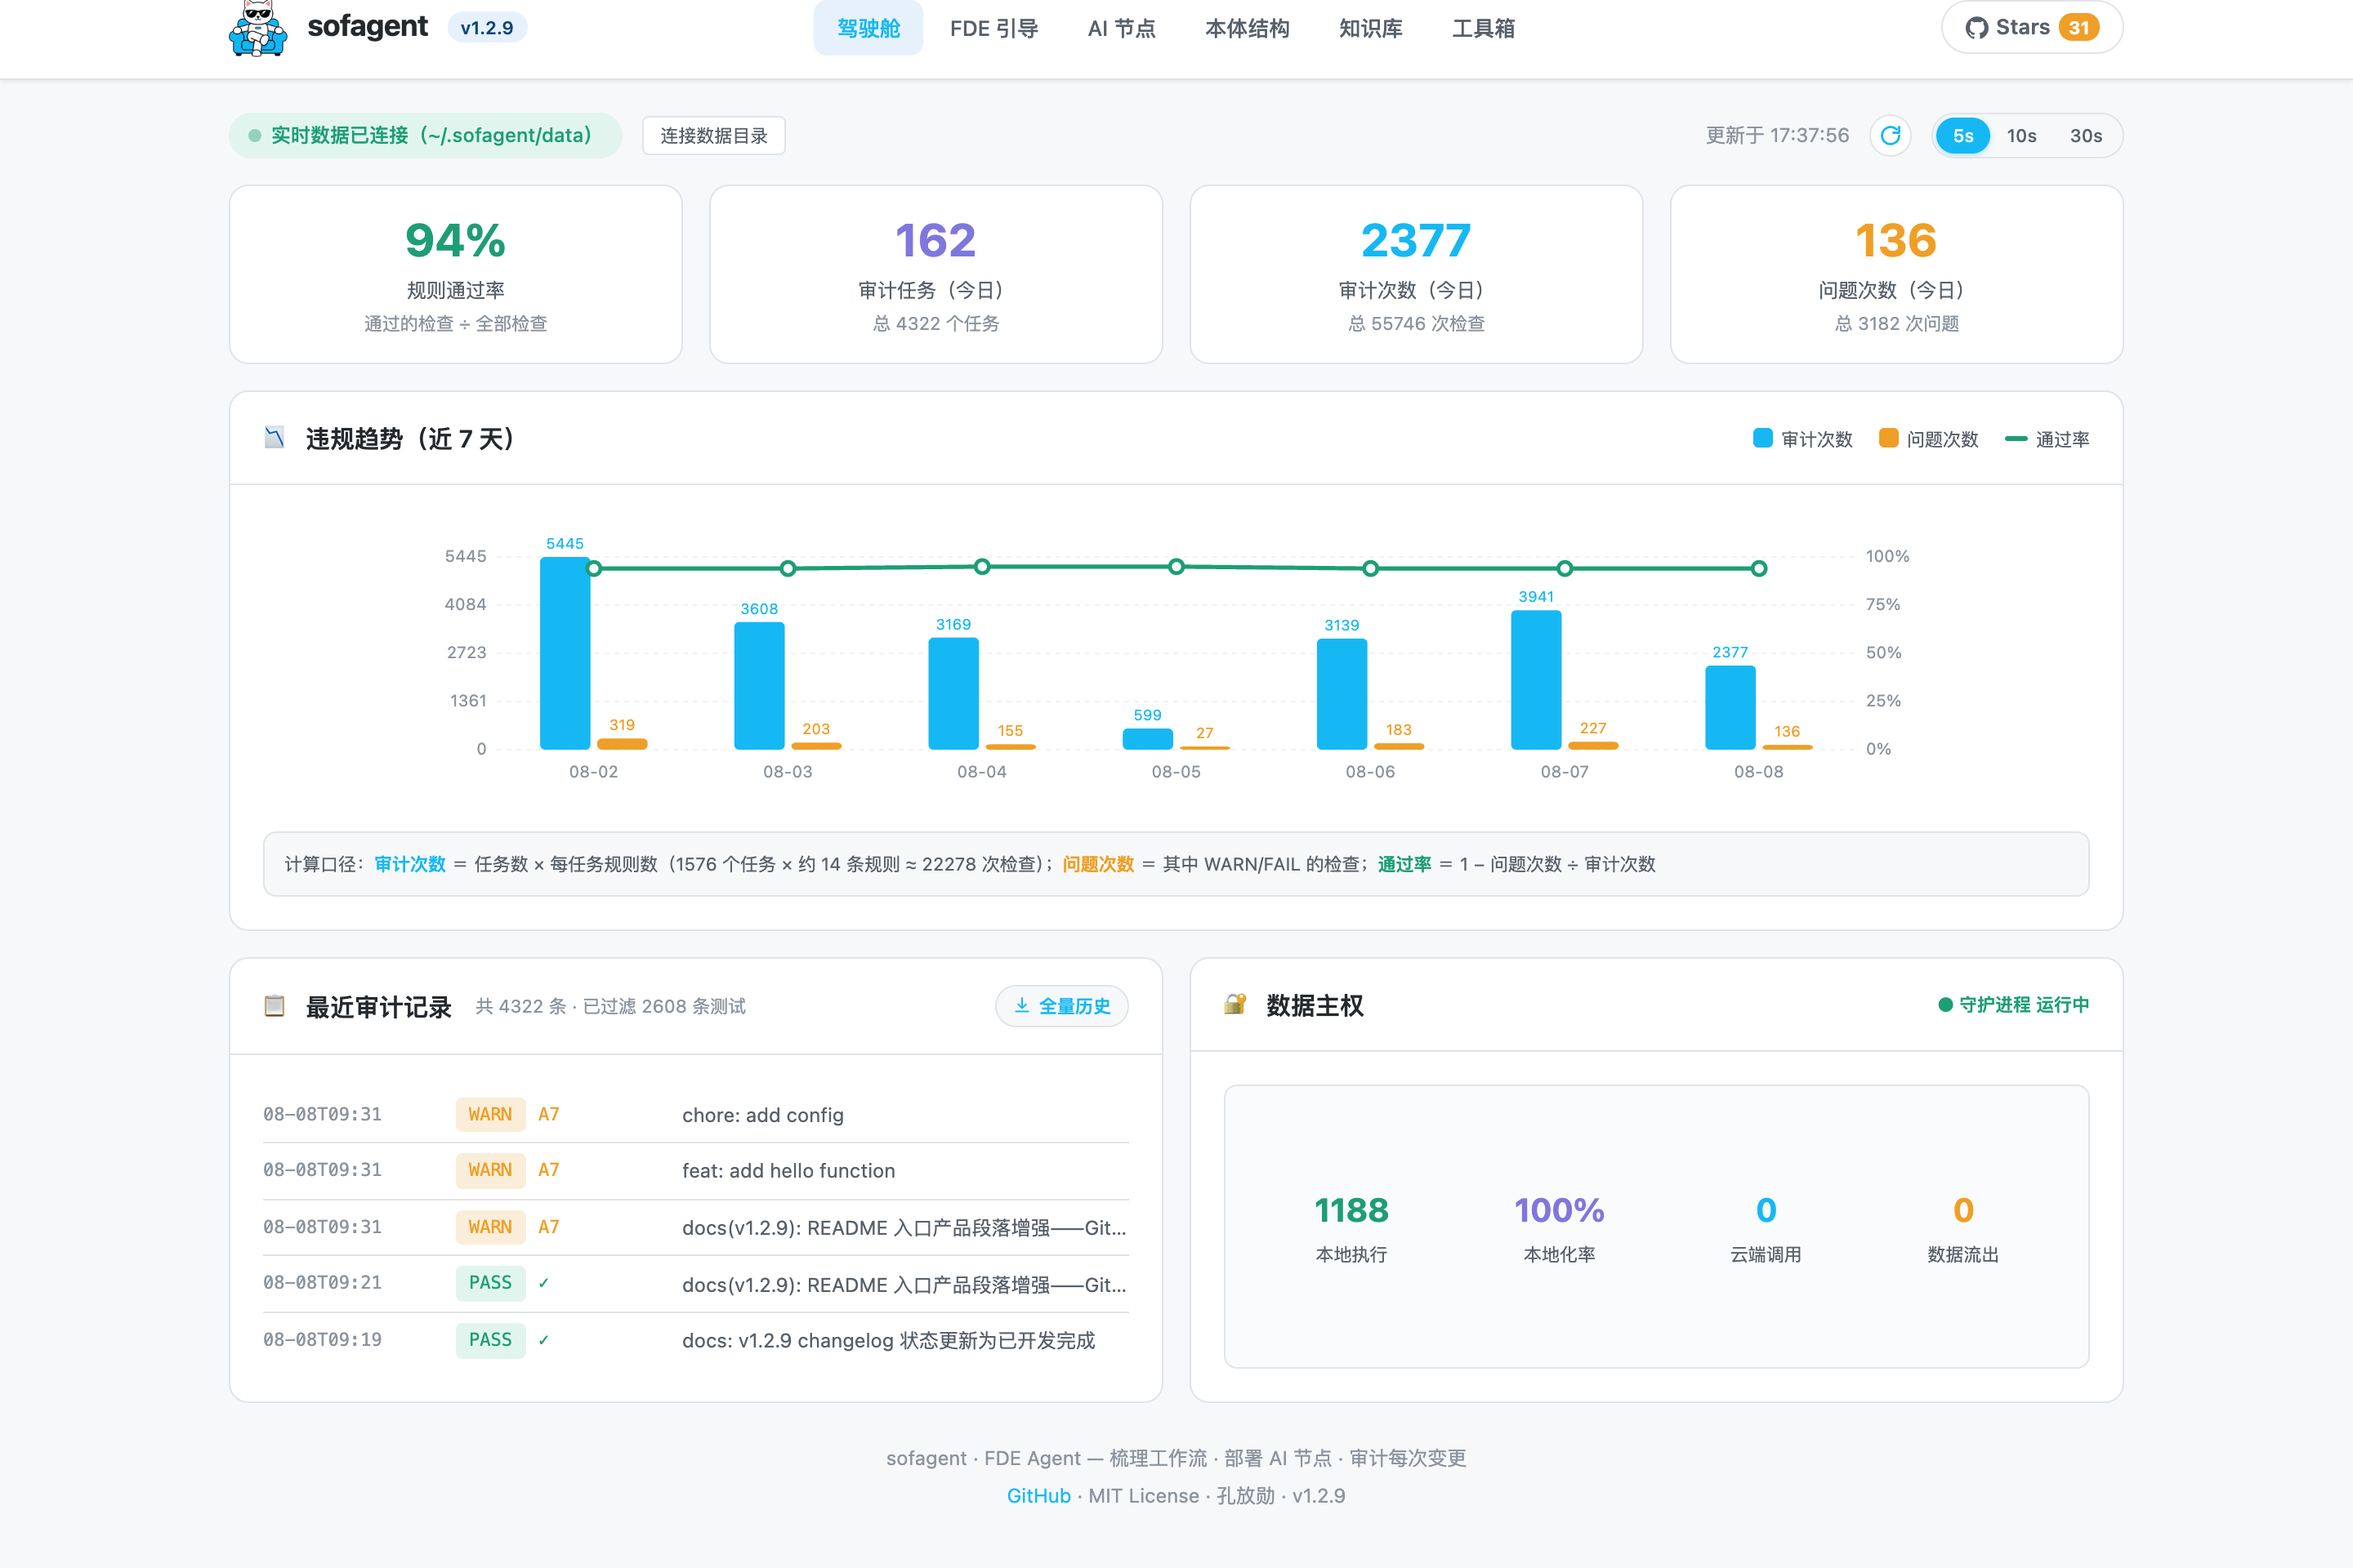
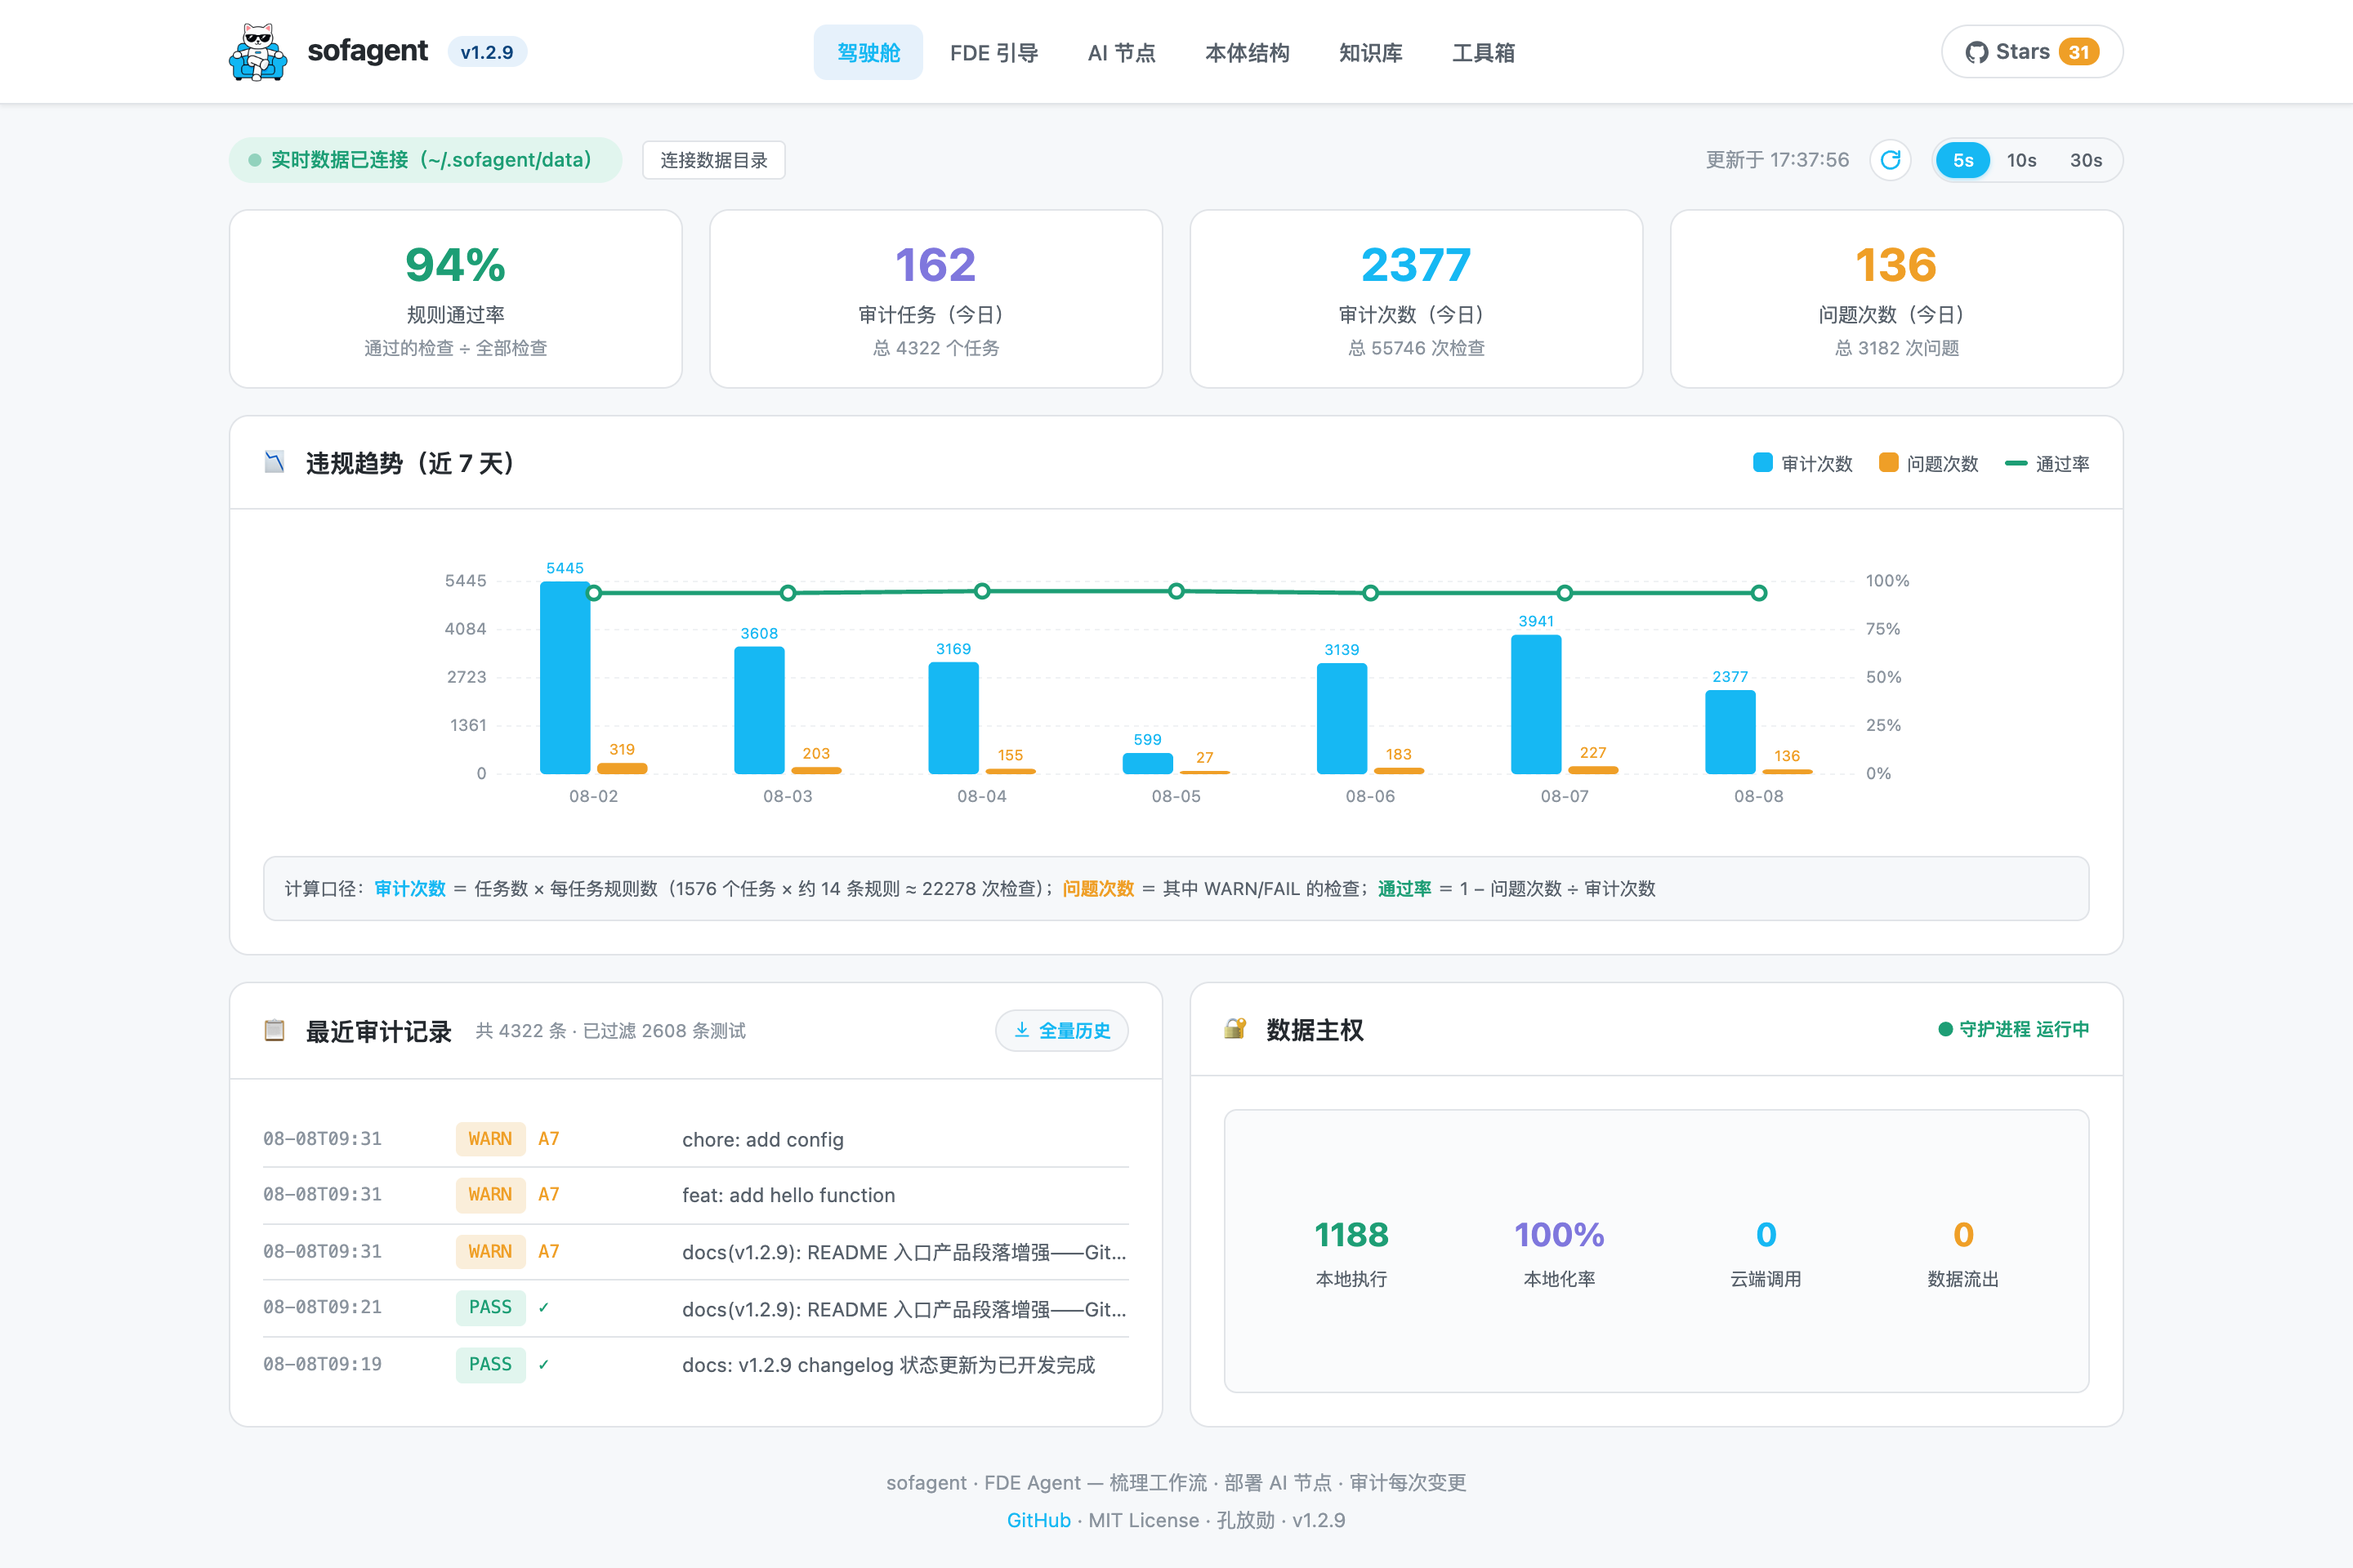
docs: 修复素材裁剪与社区板块排版
- dashboard.png：改为顶部对齐裁剪（原误用居中裁剪导致顶部被切），保留顶部内容只切底部 60px 空白 → 2880×1920
- audit-terminal.png：裁掉窗口底部 341px 投影（像素扫描定位窗口本体底边）→ 2160×777
- README 社区板块：Contributors 与 Star History 并排一行，Star History 宽度 600→460，减少留白

diff --git a/README.md b/README.md
@@ -142,17 +142,9 @@ jobs:
 
 欢迎提 Issue 和 PR，尤其较真的那种。[CONTRIBUTING.md](./CONTRIBUTING.md) · [致谢](./docs/THANKS.md)
 
-<p align="center">
-  <a href="https://github.com/KongFangXun/sofagent/graphs/contributors">
-    <img src="https://contrib.rocks/image?repo=KongFangXun/sofagent" alt="Contributors" />
-  </a>
-</p>
-
-<p align="center">
-  <a href="https://www.star-history.com/#KongFangXun/sofagent&Date">
-    <img src="https://api.star-history.com/svg?repos=KongFangXun/sofagent&type=Date" alt="Star History" width="600" />
-  </a>
-</p>
+| Contributors | Star History |
+|:---:|:---:|
+| <a href="https://github.com/KongFangXun/sofagent/graphs/contributors"><img src="https://contrib.rocks/image?repo=KongFangXun/sofagent" alt="Contributors" /></a> | <a href="https://www.star-history.com/#KongFangXun/sofagent&Date"><img src="https://api.star-history.com/svg?repos=KongFangXun/sofagent&type=Date" alt="Star History" width="460" /></a> |
 
 ## License
 
